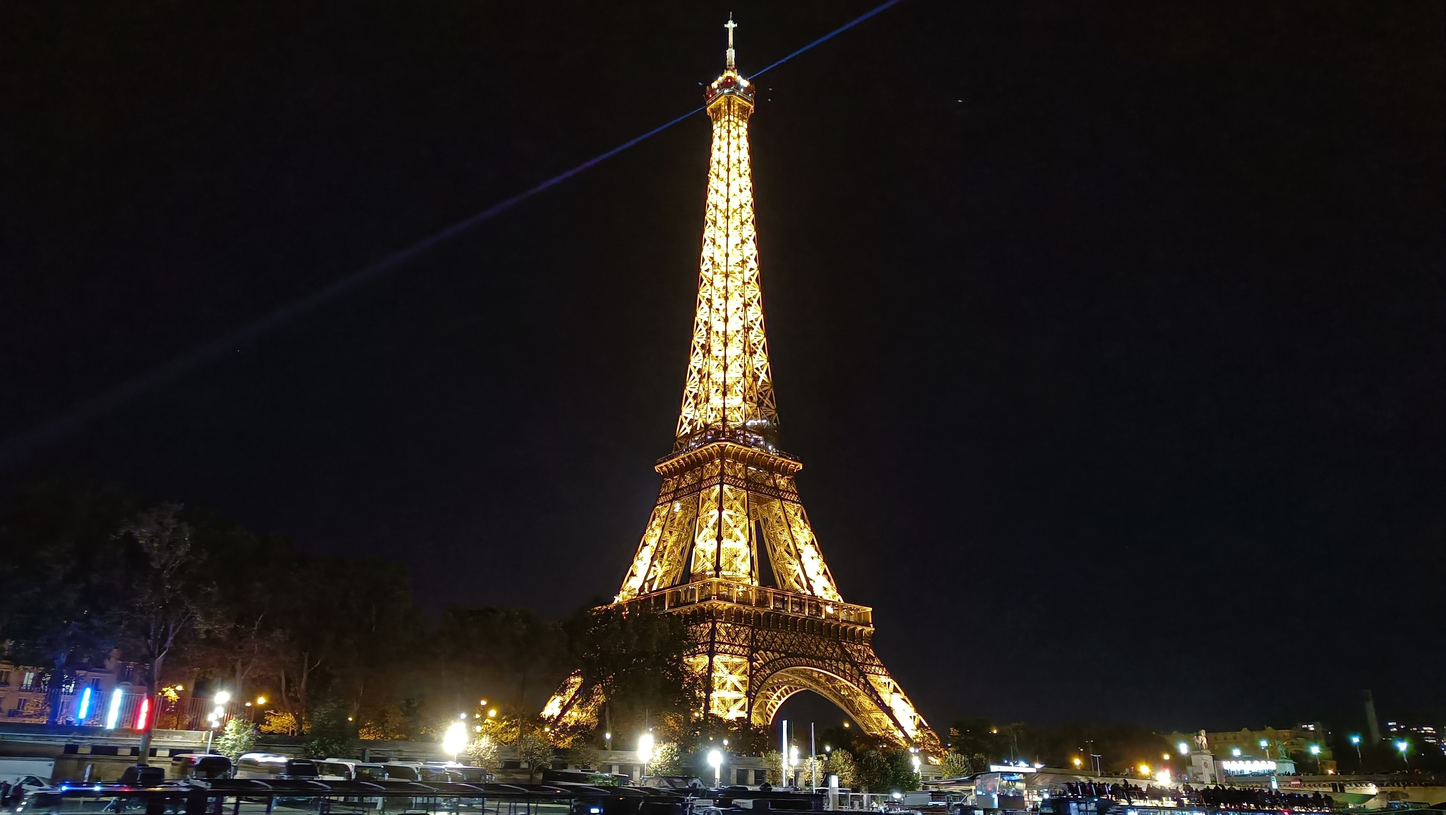
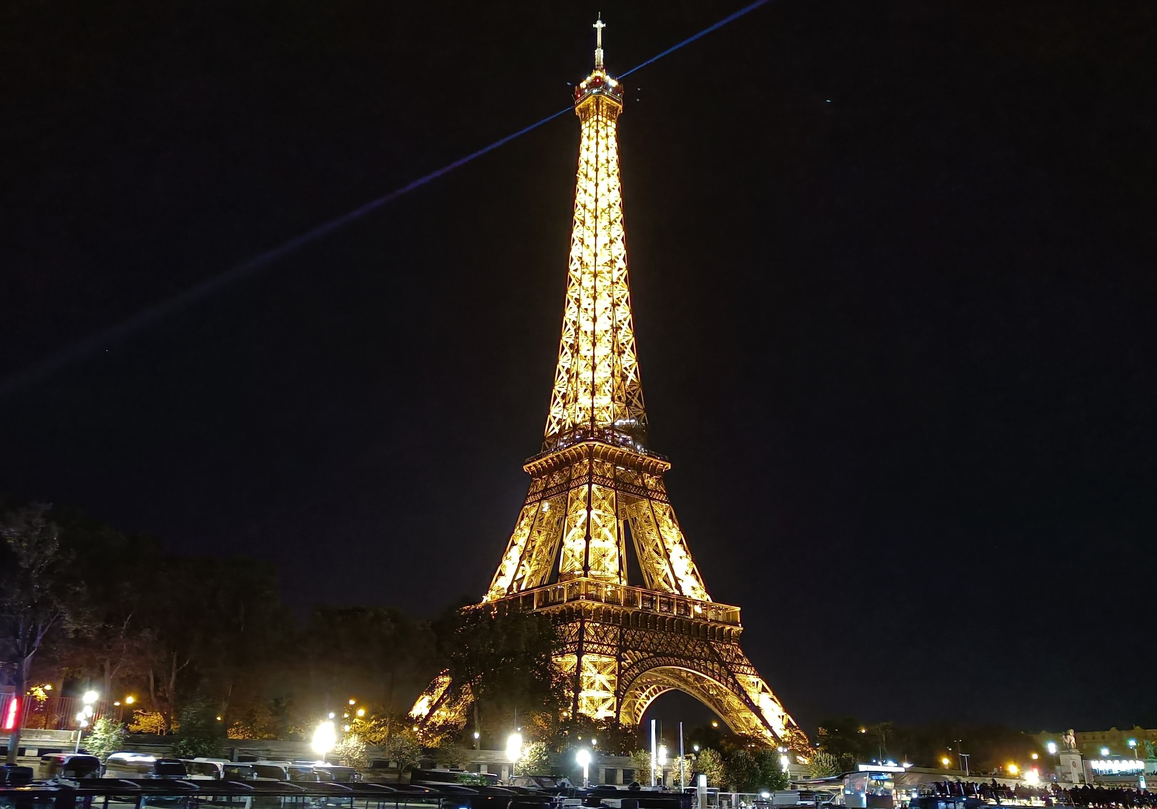
Edit home page

diff --git a/index.html b/index.html
@@ -30,15 +30,12 @@
             <img id="homeImage" src="images/seville.jpg">
         </div>
         <div class="image">
-            <img id="homeImage" src="images/eiffel_tower.jpg">
-        </div>
-        <div class="image">
             <img id="homeImage" src="images/split_park.jpg">
         </div>
     <div class="blogContainer">
         <a href="pages/paris.html">
             <div class="blogBox">
-                <img src="images/dorsay_museum.jpg">
+                <img src="images/eiffel_tower.jpg">
                 <h2>Paris</h2>
                 <p>A short few days listening to a crazy amount of music and
                     rushing to every possible tourist location.</p>

diff --git a/js/index.js b/js/index.js
@@ -14,7 +14,7 @@ function fadePage() {
             }
         });
     }, {
-        threshold: 0.5,
+        threshold: 0.4,
     });
 
     blogBoxes.forEach((blog) => {

diff --git a/css/index.css b/css/index.css
@@ -4,6 +4,7 @@
     width: 90%;
     max-height:630px;
     overflow:none;
+    object-fit:cover;
     margin-bottom: 50px;
 } 
 
